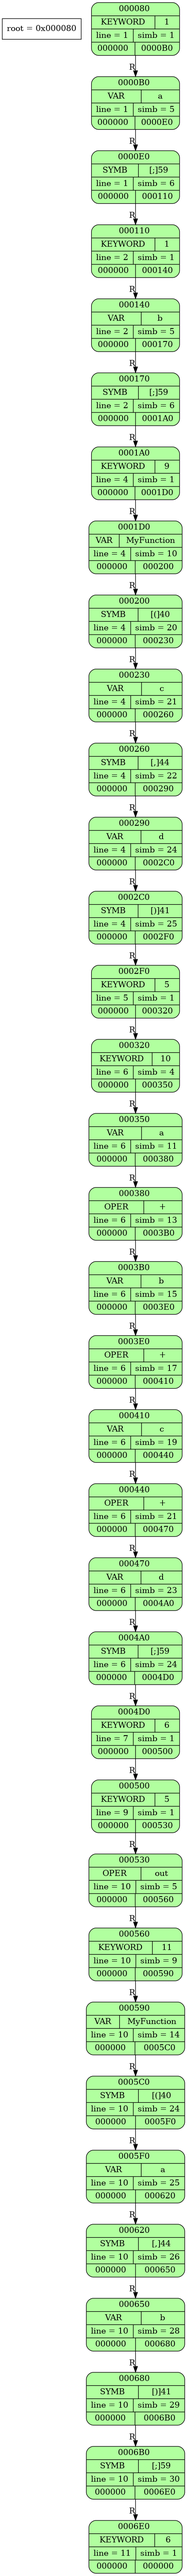
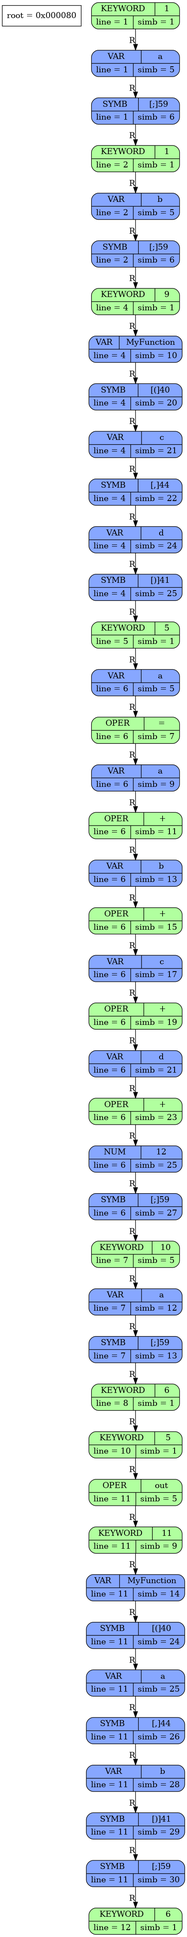
more colors in tree graphic dump

diff --git a/Libs/BinaryTree/BinaryTree.h b/Libs/BinaryTree/BinaryTree.h
@@ -188,47 +188,71 @@ static void WriteNodeAndEdge(Node* node, void* fp_void)
 
     #pragma GCC diagnostic push
     #pragma GCC diagnostic ignored "-Wformat"
-    fprintf(fp, "Node%06X[style = \"filled,rounded\", fillcolor = \"#B1FF9F\", label = \"{<i>%06X \\n | { <v>",
-                     node,                                                                   node);
+    const char light_green[]  = "#B1FF9F";
+    const char light_red[]    = "#FF4646";
+    const char light_blue[]   = "#87A7FF";
+    const char light_grey[]   = "#A6A1A1";
+    const char light_yellow[] = "#B1FF9F";
+
+    const char node_format[] = "Node%06X[style = \"filled,rounded\", fillcolor = \"%s\", label = \"{{ <v>";
     
     switch (node->val.type)
     {
         case TYPE_SYMB:
+        {
+            fprintf(fp, node_format, node, light_blue, node);
             fprintf(fp, "SYMB | [%c]%d", VAL_SYMB(node), VAL_SYMB(node));
             break;
+        }
         case TYPE_NUM:
+        {
+            fprintf(fp, node_format, node, light_blue, node);
             fprintf(fp, "NUM | %d", VAL_N(node));
             break;
+        }
         case TYPE_OP:
+        {
+            fprintf(fp, node_format, node, light_yellow, node);
             fprintf(fp, "OPER | ");
             fprintOper
             break;
+        }
         case TYPE_VAR:
+        {
+            fprintf(fp, node_format, node, light_blue, node);
             fprintf(fp, "VAR | %s ", VAL_VAR(node));
             break;
+        }
         case TYPE_KEYWORD:
         {
+            fprintf(fp, node_format, node, light_yellow, node);
             fprintf(fp, "KEYWORD | %d ", VAL_KEYWORD(node));
             break;
         }
         case TYPE_FUNCTION:
         {
+            fprintf(fp, node_format, node, light_blue, node);
             fprintf(fp, "FUNCTION | [%s] ", node->val.val.function);
             break;
         }
         case TYPE_CALL:
         {
+            fprintf(fp, node_format, node, light_green, node);
             fprintf(fp, "CALL | [%s] ", node->val.val.function);
             break;
         }
         case TYPE_RETURN:
         {
+            fprintf(fp, node_format, node, light_red, node);
             fprintf(fp, "RETURN");
             break;
         }
         case TYPE_FICT:
+        {
+            fprintf(fp, node_format, node, light_grey, node);
             fprintf(fp, "FICT ");
             break;
+        }
         case UNDEF_NODE_TYPE:
             fprintf(fp, "UNDEF");
             break;
@@ -237,10 +261,9 @@ static void WriteNodeAndEdge(Node* node, void* fp_void)
             break;
     }
 
-    fprintf(fp, "} | {line = %ld | simb = %ld}",
+    fprintf(fp, "} | {line = %ld | simb = %ld}}\"]\n",
                 node->val.number_cmd_line_in_text, node->val.number_cmd_in_text);
-    fprintf(fp, "| { <l> %06X  |<r>  %06X}}\"]\n", node->left, node->right);
-    
+                
     if (node->left != nullptr)
         fprintf(fp, "Node%06X -> Node%06X[xlabel = \"L\"]\n", node, node->left);
     if (node->right != nullptr)

diff --git a/Libs/CreateAssembler/CreateAssembler.cpp b/Libs/CreateAssembler/CreateAssembler.cpp
@@ -282,7 +282,7 @@ int PutKeyword(Node* node, FILE* output_file)
             fprintf(output_file, "label%d:\n", end_loop_label);
             return 0;
         }
-    
+
         default:
             break;
     }
